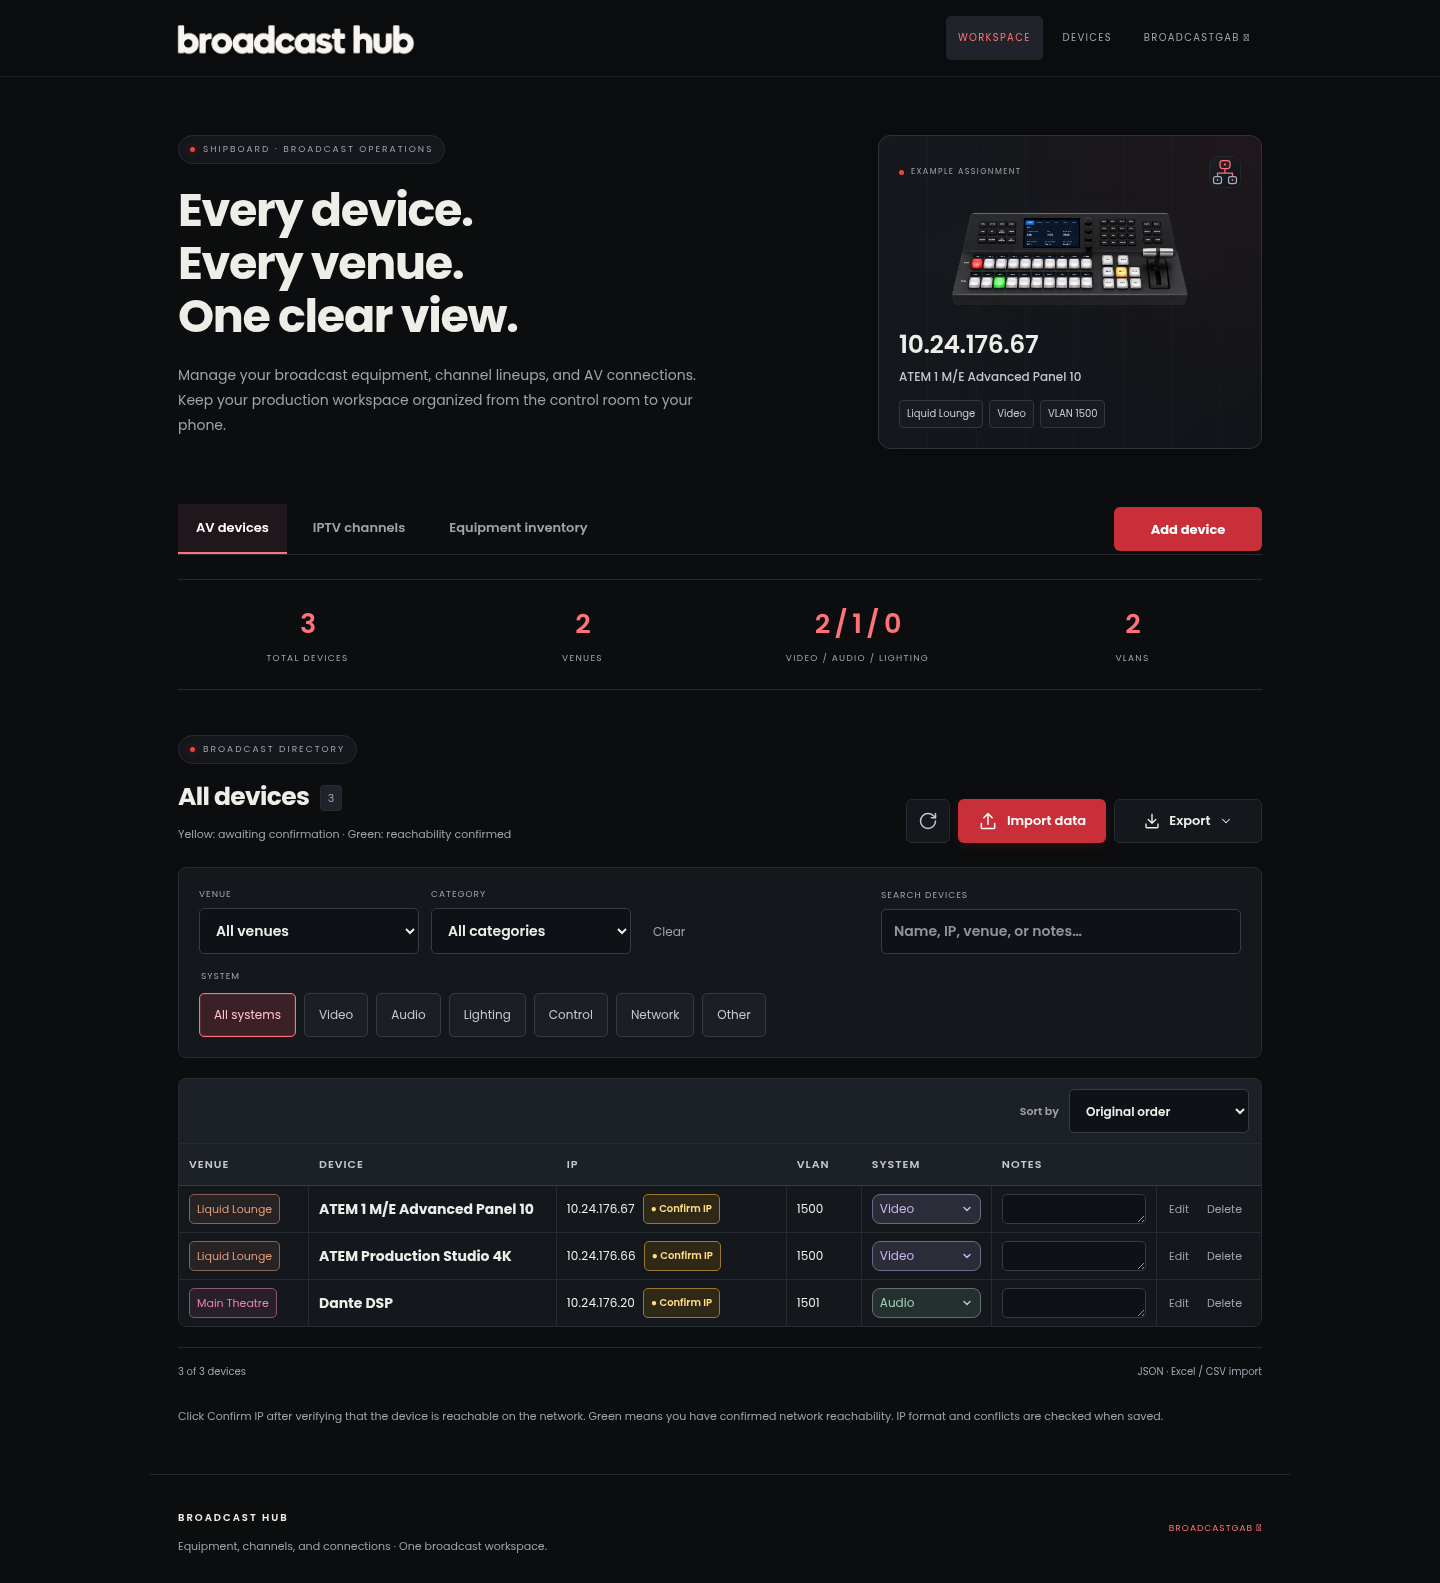
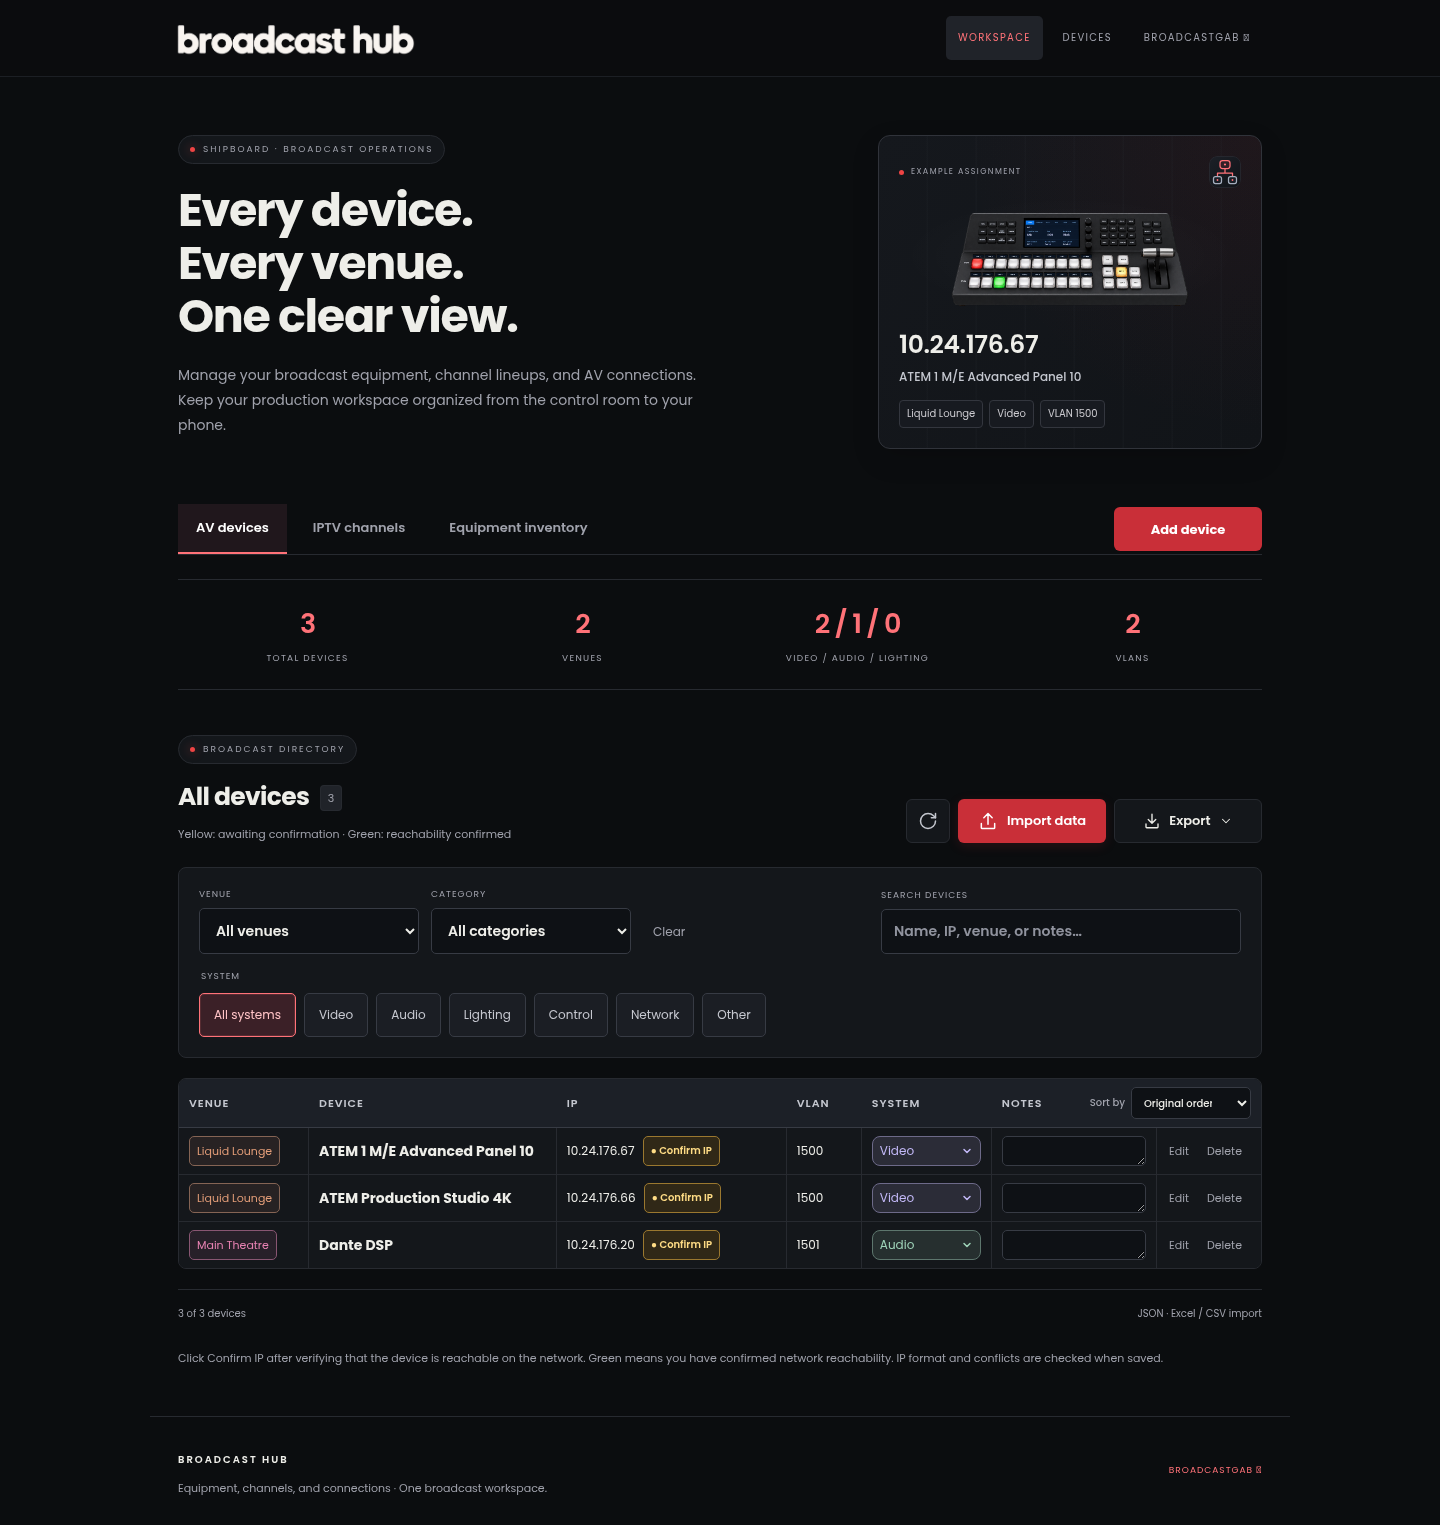
Move sorting into the directory header row

diff --git a/static/index.html b/static/index.html
@@ -24,7 +24,7 @@
 <div id="loading" class="empty">Loading your inventory…</div>
 <div id="empty" class="empty" hidden><div class="empty-icon" aria-hidden="true">⌘</div><h3 id="empty-title">Your inventory starts here</h3><p id="empty-description">Add your first device to keep your ship’s AV network organized.</p><button id="empty-add" class="primary">Add a device</button><button id="use-example" class="quiet">Fill ATEM example</button></div>
 <div id="no-results" class="empty" hidden><h3>No matching devices</h3><p>Try a different search or clear the filters.</p></div>
-<p class="directory-scroll-hint">Swipe across the directory to view every column.</p><div class="directory-toolbar"><label><span>Sort by</span><select id="sort-order"><option value="">Original order</option><option value="ip-asc">IP · Low to high</option><option value="ip-desc">IP · High to low</option><option value="name-asc">Name · A–Z</option><option value="name-desc">Name · Z–A</option><option value="system-asc">System · A–Z</option><option value="system-desc">System · Z–A</option></select></label></div><div id="device-directory" class="device-directory" tabindex="0" role="region" aria-label="Broadcast device directory"><div class="directory-head" id="directory-head"><span id="directory-venue-title">VENUE</span><span id="directory-device-title">DEVICE</span><span>IP</span><span id="directory-vlan-title">VLAN</span><span id="directory-system-title">SYSTEM</span><span>NOTES</span><span class="sr-only">Actions</span></div><div id="device-list" class="device-list" aria-live="polite"></div></div>
+<p class="directory-scroll-hint">Swipe across the directory to view every column.</p><div id="device-directory" class="device-directory" tabindex="0" role="region" aria-label="Broadcast device directory"><div class="directory-head" id="directory-head"><span id="directory-venue-title">VENUE</span><span id="directory-device-title">DEVICE</span><span>IP</span><span id="directory-vlan-title">VLAN</span><span id="directory-system-title">SYSTEM</span><div class="notes-sort-header"><span>NOTES</span><label class="directory-sort">Sort by<select id="sort-order"><option value="">Original order</option><option value="ip-asc">IP · Low to high</option><option value="ip-desc">IP · High to low</option><option value="name-asc">Name · A–Z</option><option value="name-desc">Name · Z–A</option><option value="system-asc">System · A–Z</option><option value="system-desc">System · Z–A</option></select></label><span class="sr-only">Actions</span></div></div><div id="device-list" class="device-list" aria-live="polite"></div></div>
 <footer class="panel-footer"><span id="showing">0 devices</span><span>JSON · Excel / CSV import</span></footer>
 <div id="import-warnings" class="import-warnings" role="status" hidden><h3>Duplicate IP warnings</h3><p>AV IP addresses must be unique. Review skipped import rows or repeated existing assignments below.</p><ul id="import-warning-list"></ul></div>
 </section>

diff --git a/static/style.css b/static/style.css
@@ -362,11 +362,7 @@ button.system-select{display:flex;justify-content:space-between;align-items:cent
 
 .directory-filters{grid-template-columns:minmax(160px,220px) minmax(150px,200px) auto minmax(0,1fr)}
 .directory-filters>.search{grid-column:4;grid-row:1;width:100%;max-width:360px;justify-self:end}
-.directory-toolbar{display:flex;justify-content:flex-end;margin-top:20px;padding:10px 12px;background:#1c2027;border:1px solid var(--border);border-bottom:0;border-radius:8px 8px 0 0}
-.directory-toolbar>label{display:flex;flex-direction:row;align-items:center;gap:10px;font-size:11px;color:var(--muted);white-space:nowrap}
-.directory-toolbar select{width:180px;font-size:12px}
-.directory-toolbar+.device-directory{margin-top:0;border-radius:0 0 8px 8px}
-@media(max-width:600px){.directory-filters{grid-template-columns:1fr 1fr}.directory-filters>.search{grid-column:1/-1;grid-row:1;max-width:none}.directory-filters>#venue-filter-group{grid-column:1}.directory-filters>#category-filter-label{grid-column:2}.directory-filters>#clear-filters{grid-column:1/-1;justify-self:end}.directory-toolbar select{width:175px}}
+@media(max-width:600px){.directory-filters{grid-template-columns:1fr 1fr}.directory-filters>.search{grid-column:1/-1;grid-row:1;max-width:none}.directory-filters>#venue-filter-group{grid-column:1}.directory-filters>#category-filter-label{grid-column:2}.directory-filters>#clear-filters{grid-column:1/-1;justify-self:end}}
 
 /* Keep the transfer toolbar controls aligned and equally sized. */
 .file-actions .import-button,.file-actions .export-toggle{width:148px;height:44px;min-height:44px;flex-shrink:0;justify-content:center;padding:0 10px;font-size:13px;font-weight:600;line-height:1.2}
@@ -409,3 +405,9 @@ button.system-select{display:flex;justify-content:space-between;align-items:cent
 #venue-filter.venue-choice{color:var(--venue-color);border-color:color-mix(in srgb,var(--venue-color) 50%,var(--border))}
 #venue-filter option{color:#eeeee9;background:#0e1115}
 #venue-filter option.venue-choice{color:var(--venue-color)}
+
+.directory-head{align-items:center}
+.notes-sort-header{grid-column:6/8;display:flex;align-items:center;justify-content:space-between;gap:8px;padding:8px 10px}
+.iptv-directory .notes-sort-header{grid-column:4/6}
+.directory-sort{flex-direction:row;align-items:center;gap:6px;white-space:nowrap;font:500 10px var(--font-ui);letter-spacing:0;color:var(--muted)}
+.directory-sort select{width:120px;min-height:32px;height:32px;padding:5px 22px 5px 8px;font-size:10px;line-height:1.2}
